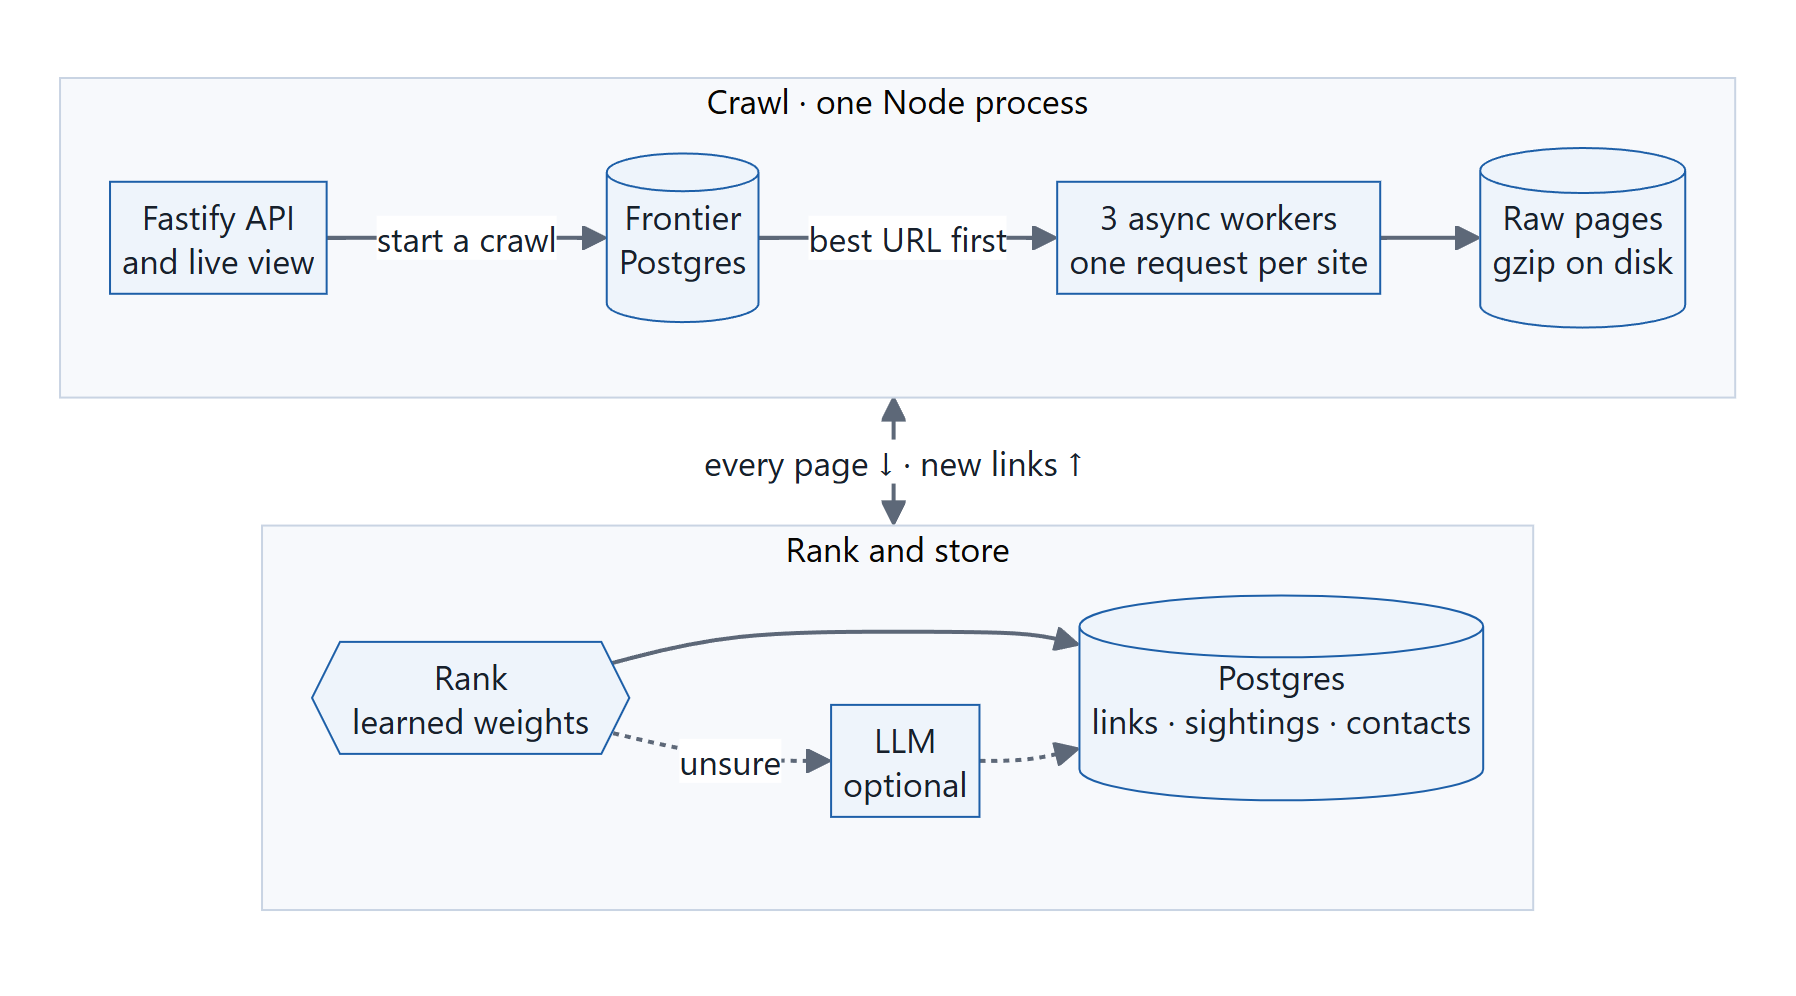
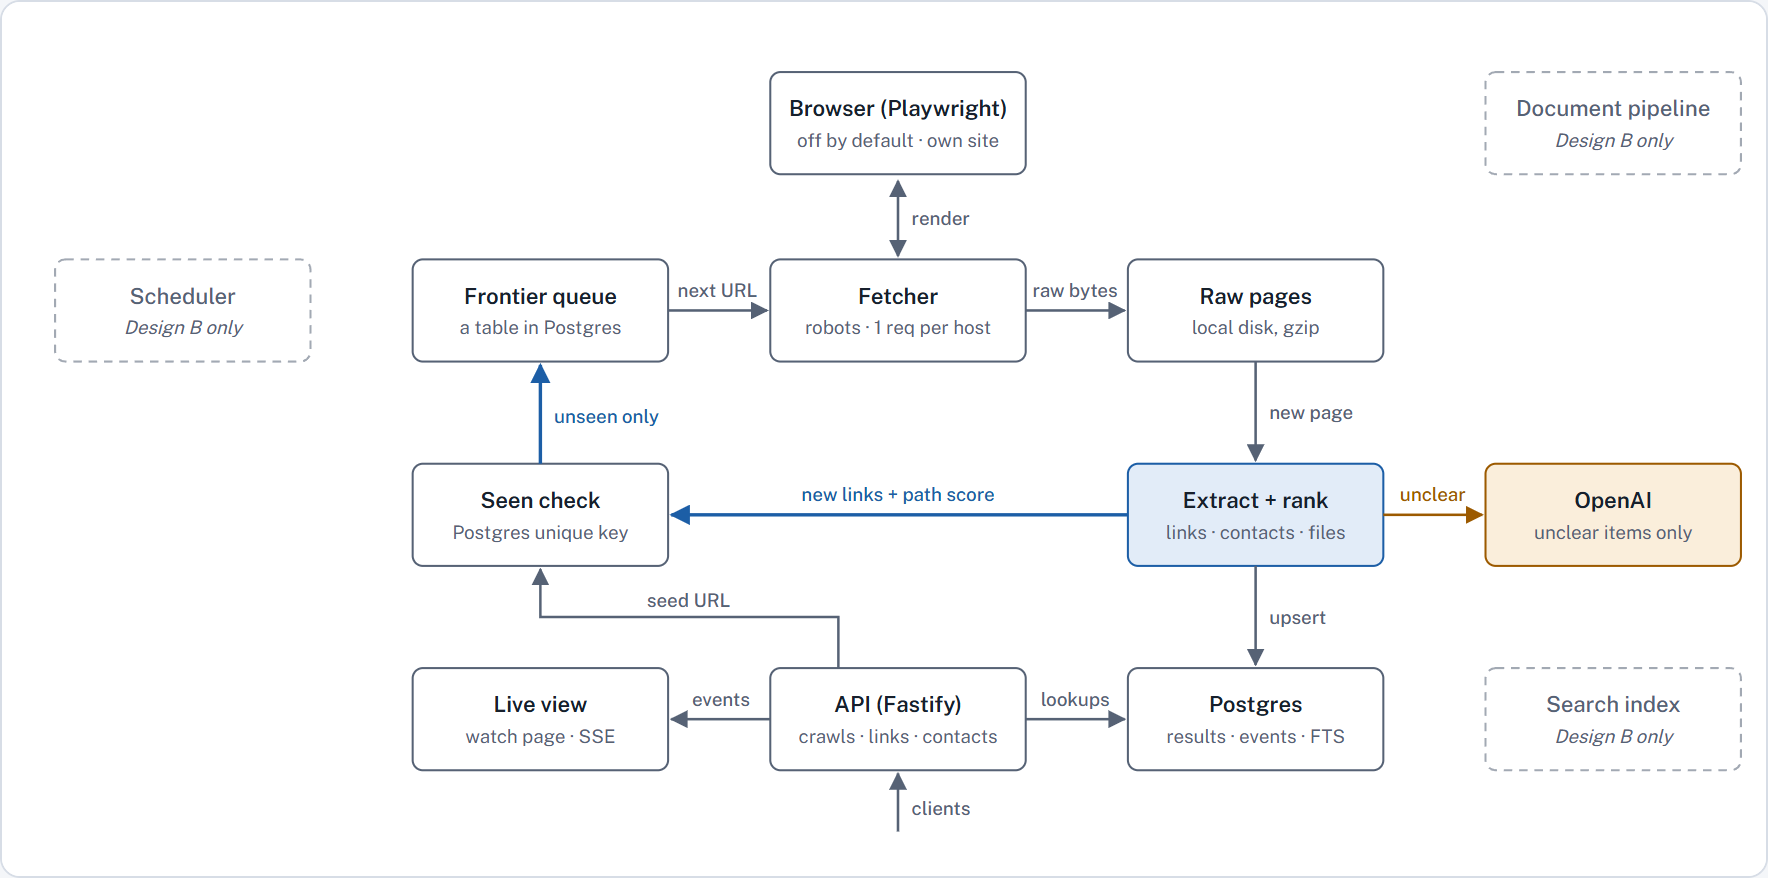
README uses the architecture page's own diagrams; ranking diagram names the learned weights

diff --git a/docs/design.html b/docs/design.html
@@ -770,7 +770,7 @@ returning f.url, f.host;
 
       <figure>
         <div class="dg">
-          <svg viewBox="0 0 900 226" role="img" aria-label="Ranking cascade. Every extracted link goes to tier 1, rules. Links scoring at least 0.7 or at most 0.2 are decided there. In the first version, links between 0.2 and 0.7 go straight to tier 3, a batched LLM call, which always decides. Tier 2, embeddings, is a later step that would sit between them. Every decision is stored with its scores, reason and deciding tier.">
+          <svg viewBox="0 0 900 226" role="img" aria-label="Ranking cascade. Every extracted link goes to tier 1, learned weights over the rule signals. Links scoring at least 0.7 or at most 0.2 are decided there. In the first version, links between 0.2 and 0.7 go straight to tier 3, a batched LLM call, which always decides. Tier 2, embeddings, is a later step that would sit between them. Every decision is stored with its scores, reason and deciding tier.">
             <defs>
               <marker id="d2-m" viewBox="0 0 10 10" refX="9" refY="5" markerWidth="7" markerHeight="7" orient="auto-start-reverse"><path class="mk" d="M0 0 L10 5 L0 10 z"/></marker>
               <marker id="d2-mc" viewBox="0 0 10 10" refX="9" refY="5" markerWidth="7" markerHeight="7" orient="auto-start-reverse"><path class="mk cost" d="M0 0 L10 5 L0 10 z"/></marker>
@@ -783,7 +783,7 @@ returning f.url, f.host;
             <text class="s" x="85" y="195" text-anchor="middle">anchor · URL · context</text>
 
             <rect class="box" x="200" y="150" width="180" height="62" rx="6"/>
-            <text class="t" x="290" y="176" text-anchor="middle">1 · Rules</text>
+            <text class="t" x="290" y="176" text-anchor="middle">1 · Learned weights</text>
             <text class="s" x="290" y="195" text-anchor="middle">free · runs on every link</text>
 
             <rect class="box ghost" x="455" y="150" width="180" height="62" rx="6"/>
@@ -808,7 +808,7 @@ returning f.url, f.host;
             <text class="lbl cost" x="808" y="108">always decides</text>
           </svg>
         </div>
-        <figcaption>Each link stops at the cheapest tier that can decide it. In the first version the dashed tier is skipped and unclear links go straight from the rules to the LLM. The 0.7 and 0.2 thresholds are starting values, tuned on the labeled set.</figcaption>
+        <figcaption>Each link stops at the cheapest tier that can decide it. In the first version the dashed tier is skipped and unclear links go straight from tier 1 to the LLM. The 0.7 and 0.2 thresholds are starting values, tuned on the labeled set.</figcaption>
       </figure>
 
       <h3>Tier 1: rule signals</h3>
@@ -1252,7 +1252,7 @@ data: {"url":"https://www.a2gov.org/calendar/2031-01","reason":"trap"}</code></p
 
             <rect class="box accent" x="640" y="250" width="150" height="60" rx="6"/>
             <text class="t" x="715" y="276" text-anchor="middle">Parse + rank</text>
-            <text class="s" x="715" y="294" text-anchor="middle">rules → vectors → LLM</text>
+            <text class="s" x="715" y="294" text-anchor="middle">learned → vectors → LLM</text>
 
             <rect class="box cost" x="850" y="250" width="150" height="60" rx="6"/>
             <text class="t" x="925" y="276" text-anchor="middle">LLM API</text>

diff --git a/README.md b/README.md
@@ -25,13 +25,13 @@ Ranks every link with learned weights, and serves the results through a REST API
 One Node process and one Postgres. The crawl queue, the results and the live events all live in
 the same database, so the whole system starts with `docker compose up`.
 
-<img src="docs/images/design-a.png" alt="Design A: the API starts a crawl; workers take the best URL from a Postgres frontier, one request per site, and save raw pages; every page is ranked with learned weights, the LLM only when unsure, and stored in Postgres" width="100%">
+<img src="docs/images/design-a.png" alt="Design A: the API sends seed URLs through a seen check into a frontier table in Postgres; the fetcher takes the next URL, one request per host, and saves raw pages; extract and rank sends new links with a path score back through the seen check, unclear items to OpenAI, and results to Postgres" width="100%">
 
 ### Design B · at millions of pages a day
 
 Not built. The same stages, split into pools that scale on their own and talk through queues.
 
-<img src="docs/images/design-b.png" alt="Design B: a scheduler feeds a frontier queue partitioned by host; a fetcher pool and a browser pool write raw pages to an object store; parse and rank workers write to Postgres, which feeds a search index through CDC, alongside a document pipeline" width="100%">
+<img src="docs/images/design-b.png" alt="Design B: a scheduler feeds a frontier queue partitioned by host; a fetcher pool and a browser pool write raw pages to an object store; parse and rank workers send unseen links back through a Bloom filter, unsure links to the LLM API, and results to Postgres, which feeds a search index through CDC; a document pipeline indexes PDF chunks" width="100%">
 
 | | Design A · built | Design B · at scale |
 |---|---|---|
@@ -50,7 +50,7 @@ Every link gets **two scores**. The **target score** says whether the link is th
 itself: the budget, the ACFR, the finance director's page. The **path score** says whether it
 leads to one. The crawl follows the path score; the results sort by the target score.
 
-<img src="docs/images/link-logic.png" alt="A link's text, URL, heading and nearby text become 22 signals; learned weights give a probability; year and draft discounts follow; the LLM decides only scores between 0.2 and 0.7" width="100%">
+<img src="docs/images/ranking.png" alt="Ranking cascade: extracted links go to tier 1, the learned weights; links at 0.7 or more, or 0.2 or less, are decided there; links in between go to the LLM, which always decides; embeddings are a later tier between them" width="100%">
 
 A real result from Ann Arbor, with the reasons the API returns:
 
